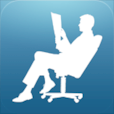
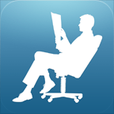
Added retina image for the main image again (I don't know why it got lost)

diff --git a/public_html/index.html b/public_html/index.html
@@ -93,7 +93,7 @@
 				<h1 class="header-title">My Name is Daniel.</h1>
 
 				<div class="header-image">
-					<img src="/img/header-227fd657.png" alt=""/>
+					<img src="/img/header-227fd657.png" data-at2x="/img/header@2x-33ccb3a7.png" alt=""/>
 				</div>
 
 				<div class="header-copy">
